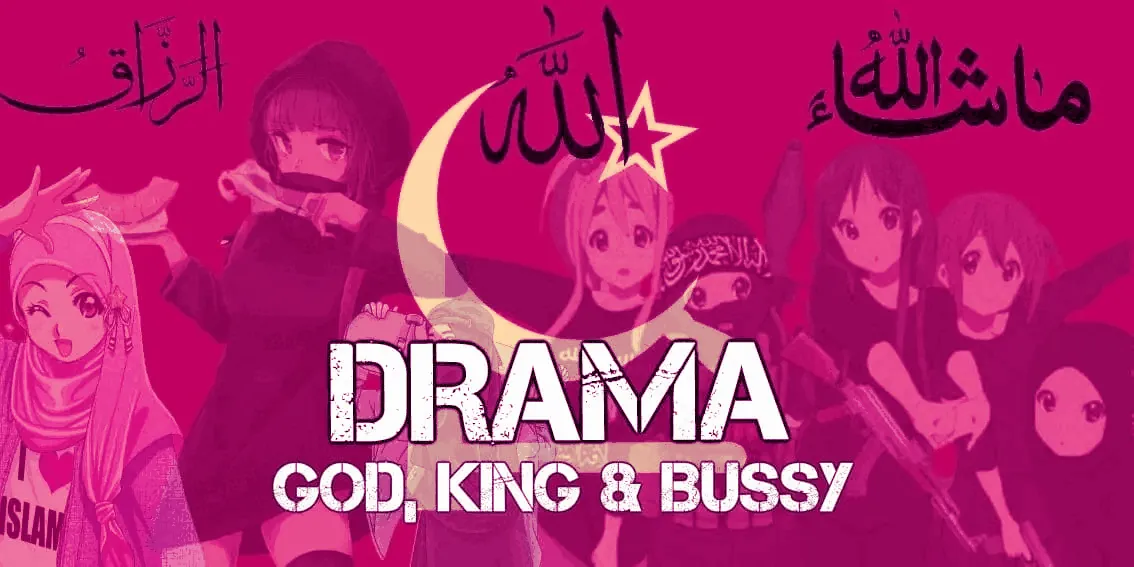
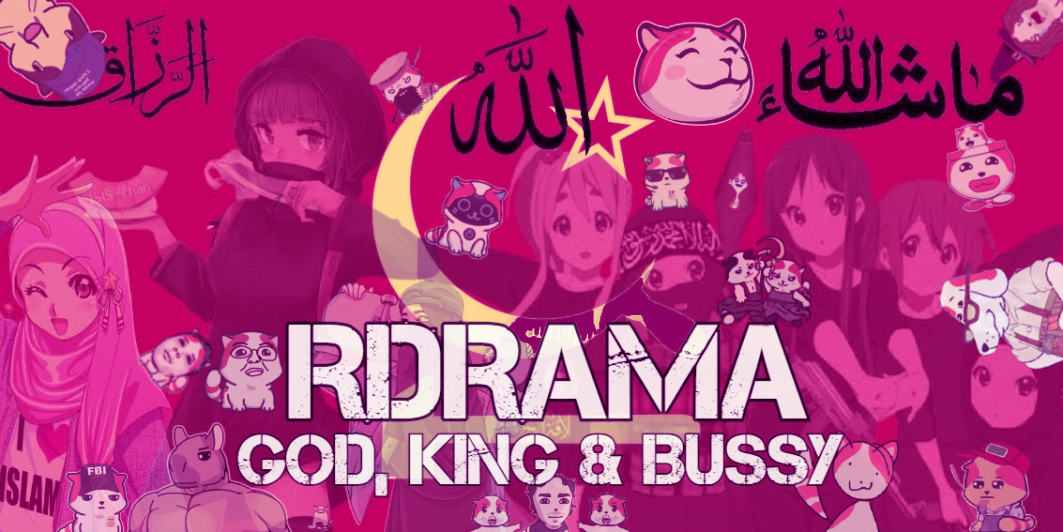
site_preview change for rdrama

diff --git a/files/templates/util/assetcache.html b/files/templates/util/assetcache.html
@@ -39,5 +39,5 @@ set CACHE_VER = {
 {%- endmacro -%}
 
 {%- macro asset_siteimg(name) -%}
-/i/{{SITE_NAME}}/{{name}}?v=3007
+/i/{{SITE_NAME}}/{{name}}?v=3008
 {%- endmacro -%}

diff --git a/files/classes/submission.py b/files/classes/submission.py
@@ -213,7 +213,7 @@ class Submission(Base):
 			return self.thumburl
 		elif self.is_youtube or self.is_video: return f"{SITE_FULL}/assets/images/default_thumb_video.webp?v=1"
 		elif self.is_audio: return f"{SITE_FULL}/assets/images/default_thumb_audio.webp?v=1"
-		elif self.domain == SITE: return f"{SITE_FULL}/assets/images/{SITE_NAME}/site_preview.webp?v=3001" 
+		elif self.domain == SITE: return f"{SITE_FULL}/assets/images/{SITE_NAME}/site_preview.webp?v=3008"
 		else: return f"{SITE_FULL}/assets/images/default_thumb_link.webp?v=1"
 
 	@property

diff --git a/files/classes/user.py b/files/classes/user.py
@@ -597,7 +597,7 @@ class User(Base):
 	def banner_url(self):
 		if FEATURES['USERS_PROFILE_BANNER'] and self.bannerurl:
 			return self.bannerurl
-		return f"/i/{SITE_NAME}/site_preview.webp?v=3001"
+		return f"/i/{SITE_NAME}/site_preview.webp?v=3008"
 
 	@property
 	@lazy
